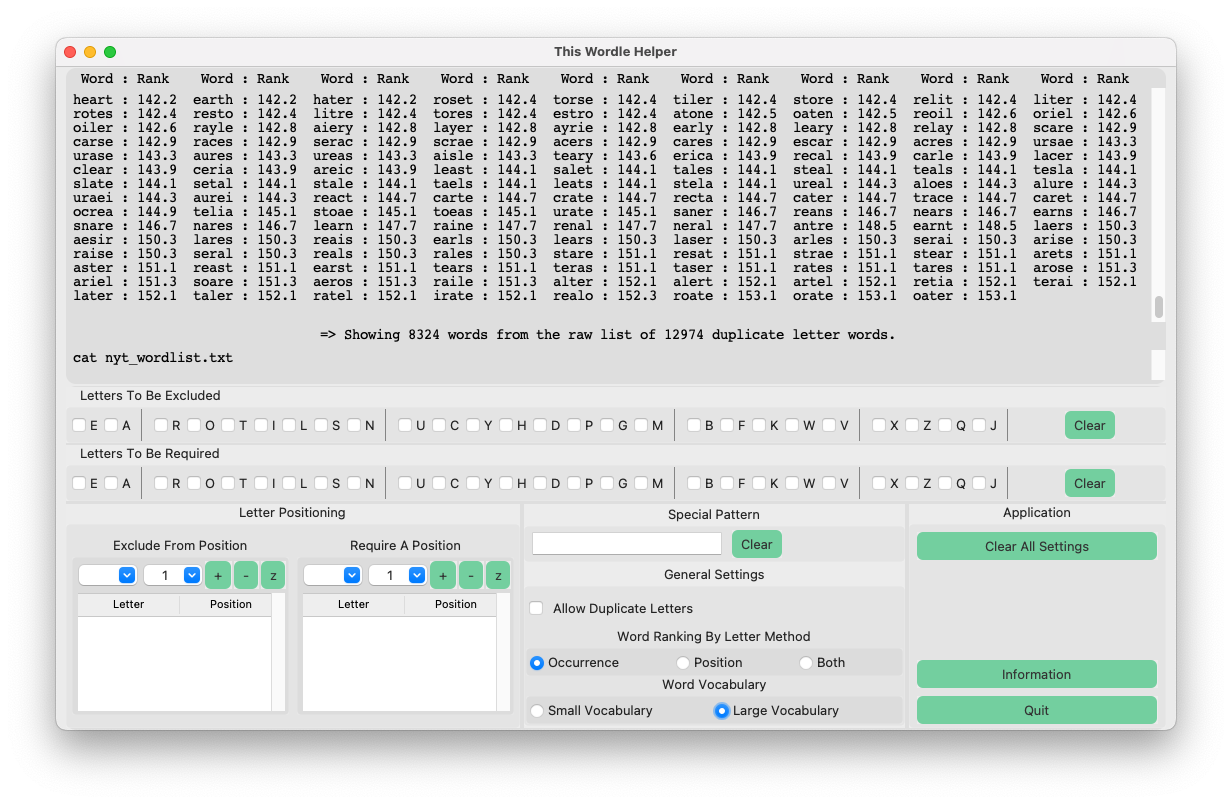
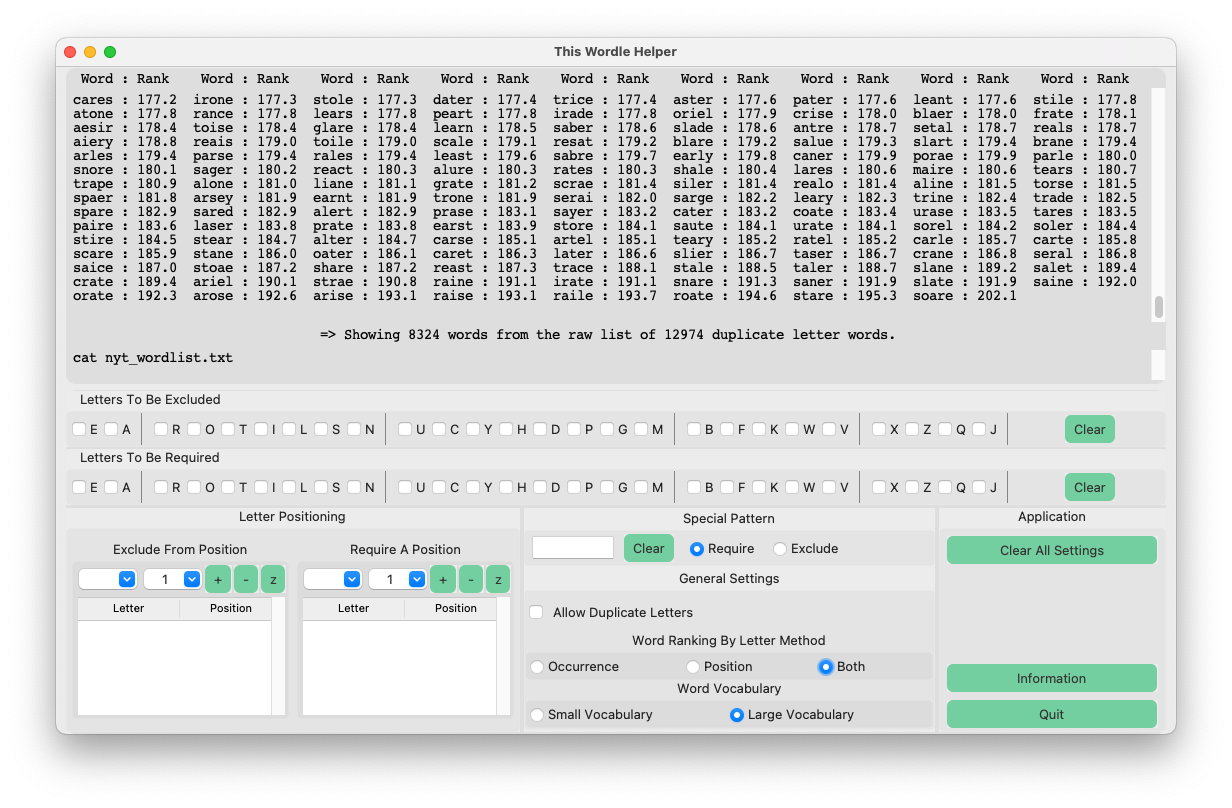
added special pattern exclude and require mode control

diff --git a/pywt.py b/pywt.py
@@ -176,7 +176,12 @@ class Pywordlemainwindow(ctk.CTk):
             wordletool.tool_command_list.add_cmd(build_requireall_grep(self.re_btn_vars))
             build_x_pos_grep(wordletool, x_pos_dict)
             build_r_pos_grep(wordletool, r_pos_dict)
-            wordletool.tool_command_list.add_require_cmd(self.spec_pattern.get().lower())
+
+            if self.sp_pat_mode_var.get() == 1:
+              wordletool.tool_command_list.add_require_cmd(self.spec_pattern.get().lower())
+            else:
+              wordletool.tool_command_list.add_excl_cmd(self.spec_pattern.get().lower())
+
             # Allow duplicates could have been changed by this point and also by this next
             # special pattern check. Thus, the wordletool.allow_dups is reset accordingly before
             # the final word list is generated.
@@ -535,8 +540,9 @@ class Pywordlemainwindow(ctk.CTk):
                                                 )
         self.specialpatt_frame.pack(side=tk.TOP, fill=tk.BOTH, padx=0, pady=2, expand=True)
 
-        # pattern
+        # special pattern control variables
         self.spec_pattern = tk.StringVar()
+        self.sp_pat_mode_var = tk.IntVar(value=1)
 
         # self.spec_pattern.set("this pattern")
 
@@ -554,8 +560,8 @@ class Pywordlemainwindow(ctk.CTk):
                 self.allow_dup_state.set(True)
 
         def do_spec_pat(*args):
-            # In this ui all text is shown in uppercase.
-            self.spec_pattern.set(scrub_text(self.spec_pattern.get(), '').upper())
+            # In this ui all text is shown in uppercase and there can be only five letters
+            self.spec_pattern.set('%.5s' % scrub_text(self.spec_pattern.get(), '').upper())
             do_grep()
 
         try:
@@ -567,6 +573,7 @@ class Pywordlemainwindow(ctk.CTk):
 
         self.lb_spec_pattern = ttk.Entry(self.specialpatt_frame,
                                          textvariable=self.spec_pattern,
+                                         width=8,
                                          justify='center')
         self.lb_spec_pattern.pack(side=tk.LEFT, padx=4, pady=2)
 
@@ -579,6 +586,13 @@ class Pywordlemainwindow(ctk.CTk):
                                         command=clear_spec_pattern
                                         )
         self.bt_pat_clr.pack(side=tk.LEFT, padx=4, pady=2)
+
+        # special pattern mode radio buttons
+        rb_pi = ttk.Radiobutton(self.specialpatt_frame, text="Require", variable=self.sp_pat_mode_var, value=1, command=do_spec_pat)
+        rb_pi.pack(side=tk.LEFT, padx=10, pady=2)
+        rb_px = ttk.Radiobutton(self.specialpatt_frame, text="Exclude", variable=self.sp_pat_mode_var, value=2, command=do_spec_pat)
+        rb_px.pack(side=tk.LEFT, padx=6, pady=2)
+
         # =======  END OF ============ include special pattern control
 
         # actions frame general - uses pack
@@ -1077,7 +1091,6 @@ class Pywordlemainwindow(ctk.CTk):
         vocab_frame = ttk.LabelFrame(self.actions_frame, text='Word Vocabulary', labelanchor='n')
         vocab_frame.pack(anchor='s', fill=tk.X, expand=True)
         # Vocabulary radio buttons
-
         rbv1 = ttk.Radiobutton(vocab_frame, text="Small Vocabulary", variable=self.vocab_var, value=1, command=do_grep)
         rbv1.pack(side=tk.LEFT, fill=tk.X, padx=0, pady=2, expand=True)
         rbv2 = ttk.Radiobutton(vocab_frame, text="Large Vocabulary", variable=self.vocab_var, value=2, command=do_grep)

diff --git a/NotPartOfGUI/grepper.py b/NotPartOfGUI/grepper.py
@@ -6,13 +6,13 @@
 # grep filtering builder
 def setup_grep_filtering(this_sh_cmd_lst):
     # post first pick always exclusions
-    # format is => this_sh_cmd_lst.add_excl_any_cmd('ltr|s')
-    # this_sh_cmd_lst.add_excl_any_cmd('a|s|b|i|e')
+    # format is => this_sh_cmd_lst.add_excl_cmd('ltr|s')
+    # this_sh_cmd_lst.add_excl_cmd('a|s|b|i|e')
     #
     # post first pick temporary exclusions
-    # format is => this_sh_cmd_lst.add_excl_any_cmd('ltr|s')
+    # format is => this_sh_cmd_lst.add_excl_cmd('ltr|s')
     # make sure to remove any position rules for these
-    # this_sh_cmd_lst.add_excl_any_cmd('e|t|r')
+    # this_sh_cmd_lst.add_excl_cmd('e|t|r')
     #
     # Low rank exclusions
     # add back in at some point

diff --git a/helpers.py b/helpers.py
@@ -207,7 +207,7 @@ class ShellCmdList:
             self.shCMDlist.append("grep -E '" + ltr + "'")
 
     # Adds command to stack to exclude letter ltr.
-    def add_excl_any_cmd(self, ltr):
+    def add_excl_cmd(self, ltr):
         if len(ltr) > 0:
             self.shCMDlist.append("grep -vE '" + ltr + "'")
 
